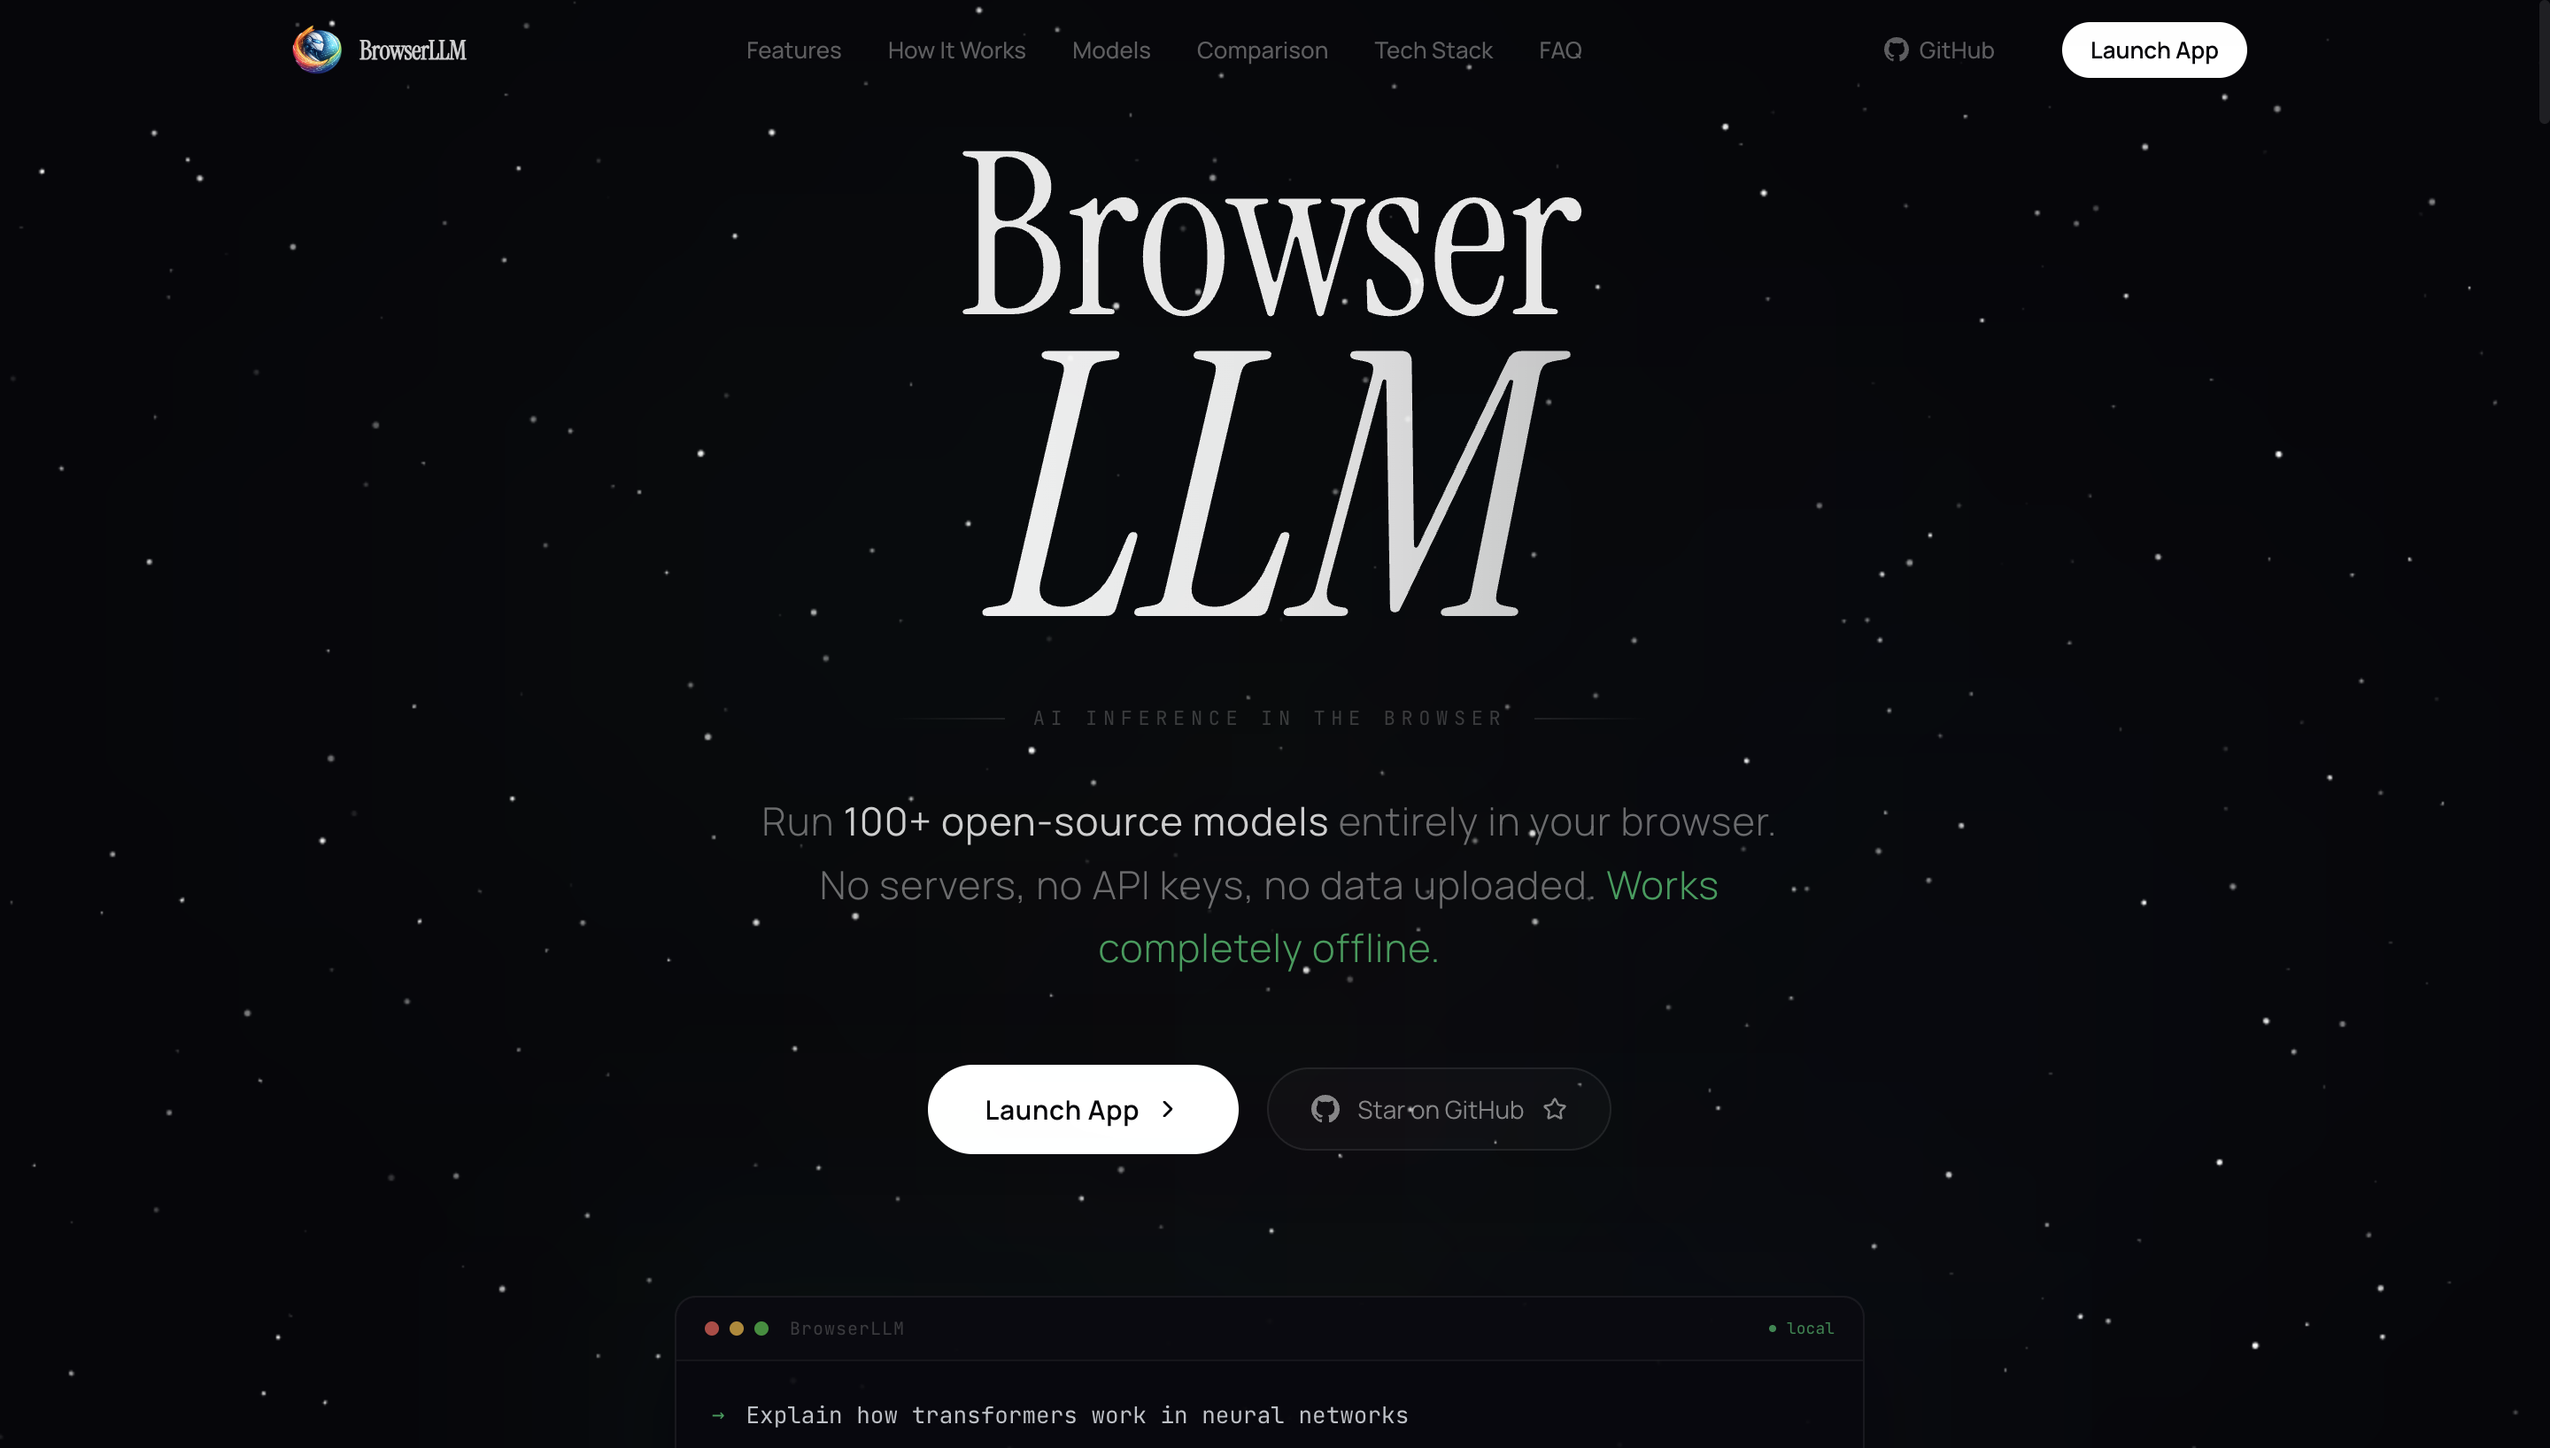
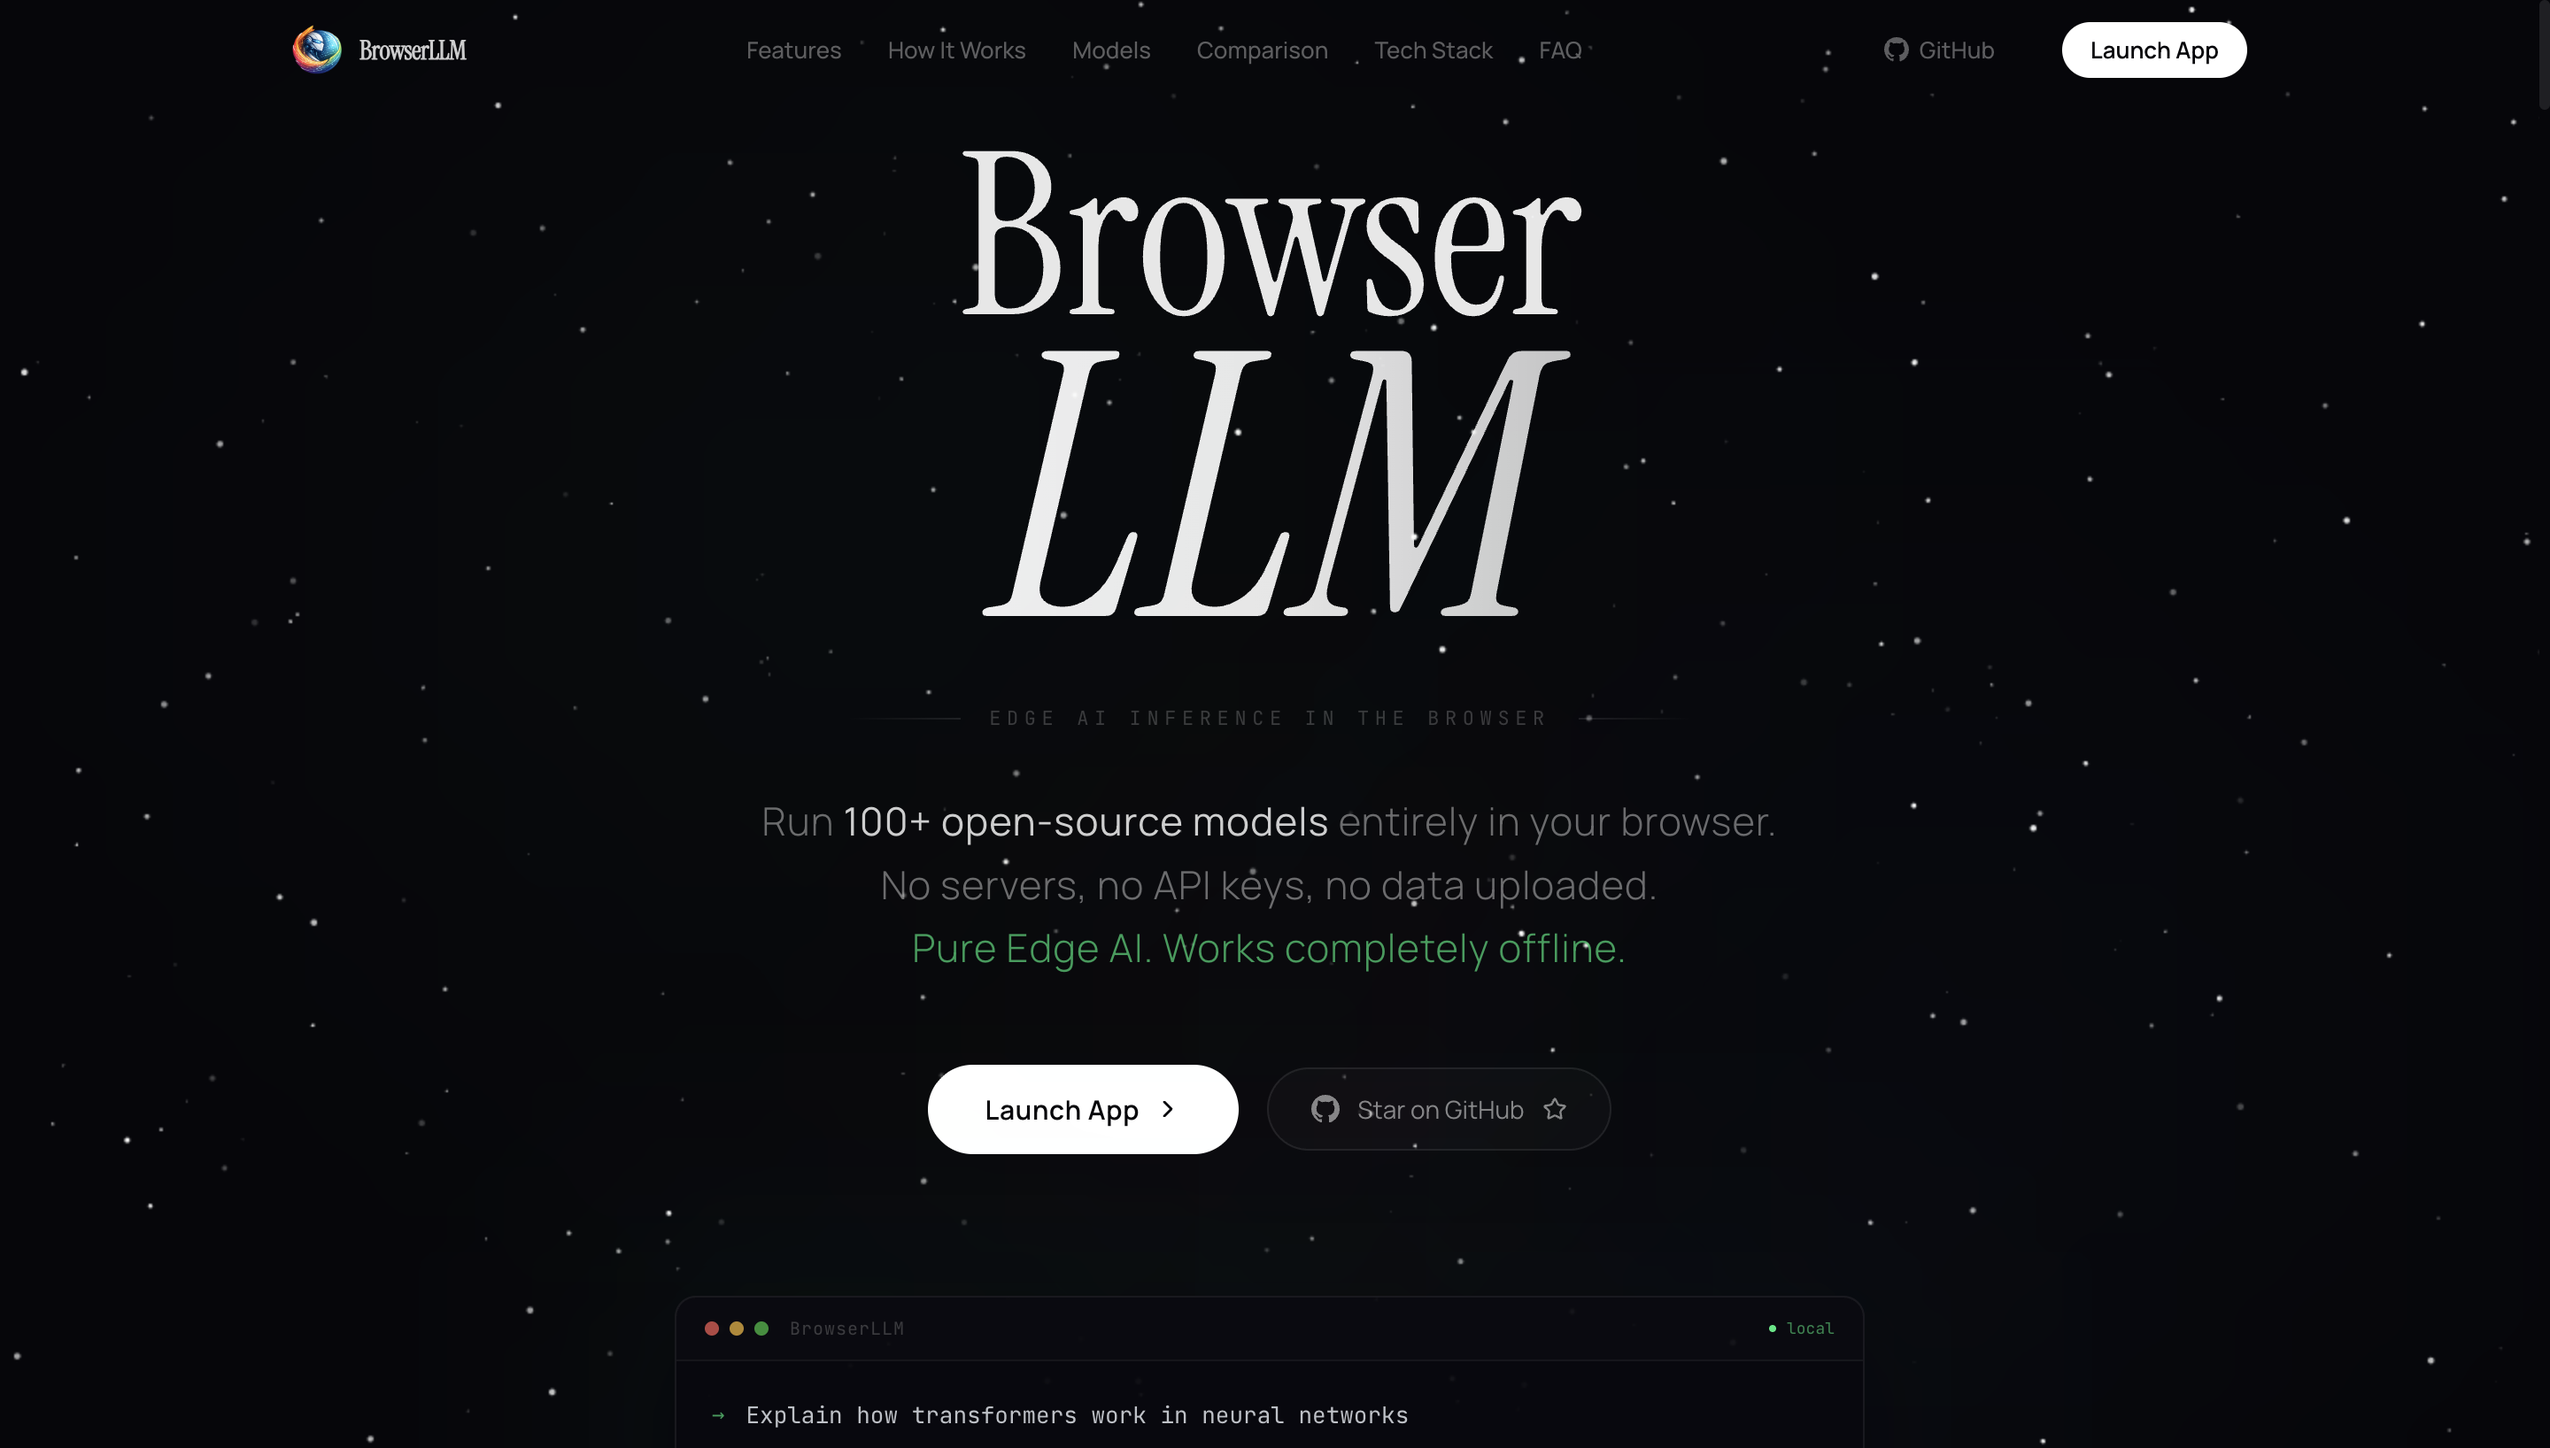
Add Zero Backend section, increase hero subtitle width, add Edge AI messaging throughout

Changed region(s): [[0.3125, 0.5923, 0.6562, 0.6858], [0.5625, 0.4676, 0.5938, 0.4988], [0.4375, 0.4676, 0.4688, 0.4988]]

diff --git a/src/components/landing/ZeroBackendSection.tsx b/src/components/landing/ZeroBackendSection.tsx
@@ -1,0 +1,141 @@
+import { motion } from "framer-motion";
+import { fadeUp, stagger, defaultTransition } from "../../lib/animations";
+import { SectionHeader } from "../ui/SectionHeader";
+import { ServerOff, Wifi, WifiOff, Code2, Lock, Cpu } from "lucide-react";
+
+const GithubIcon = ({ className }: { className?: string }) => (
+  <svg viewBox="0 0 24 24" fill="currentColor" className={className}>
+    <path d="M12 0C5.37 0 0 5.37 0 12c0 5.31 3.435 9.795 8.205 11.385.6.105.825-.255.825-.57 0-.285-.015-1.23-.015-2.235-3.015.555-3.795-.735-4.035-1.41-.135-.345-.72-1.41-1.23-1.695-.42-.225-1.02-.78-.015-.795.945-.015 1.62.87 1.845 1.23 1.08 1.815 2.805 1.305 3.495.99.105-.78.42-1.305.765-1.605-2.67-.3-5.46-1.335-5.46-5.925 0-1.305.465-2.385 1.23-3.225-.12-.3-.54-1.53.12-3.18 0 0 1.005-.315 3.3 1.23.96-.27 1.98-.405 3-.405s2.04.135 3 .405c2.295-1.56 3.3-1.23 3.3-1.23.66 1.65.24 2.88.12 3.18.765.84 1.23 1.905 1.23 3.225 0 4.605-2.805 5.625-5.475 5.925.435.375.81 1.095.81 2.22 0 1.605-.015 2.895-.015 3.3 0 .315.225.69.825.57A12.02 12.02 0 0024 12c0-6.63-5.37-12-12-12z" />
+  </svg>
+);
+
+const FACTS = [
+  {
+    icon: <ServerOff className="w-5 h-5" />,
+    title: "Zero Servers",
+    desc: "No backend. No API. No cloud functions. This entire app is a static site served from the edge. There is literally nothing to hack.",
+    accent: "#ff6b35",
+  },
+  {
+    icon: <WifiOff className="w-5 h-5" />,
+    title: "Works Offline",
+    desc: "Disconnect your internet. The app still works. Models run on YOUR GPU via WebGPU. Your data never touches a wire.",
+    accent: "#00d4ff",
+  },
+  {
+    icon: <Cpu className="w-5 h-5" />,
+    title: "True Edge AI",
+    desc: "AI inference happens at the edge - your device. No round-trips to data centers, no latency, no metered API calls. This is what AI was supposed to be.",
+    accent: "#00ff88",
+  },
+  {
+    icon: <Lock className="w-5 h-5" />,
+    title: "Unbreakable Privacy",
+    desc: "We can't see your data even if we wanted to. There's no server to log to, no database to query, no analytics pipeline. Mathematically private.",
+    accent: "#a78bfa",
+  },
+  {
+    icon: <Wifi className="w-5 h-5" />,
+    title: "No API Keys, Ever",
+    desc: "No sign-ups, no tokens, no rate limits, no billing. Open the site and start chatting with AI. That's it. Forever free.",
+    accent: "#facc15",
+  },
+  {
+    icon: <Code2 className="w-5 h-5" />,
+    title: "100% Open Source",
+    desc: "Every line of code is on GitHub. Fork it, audit it, self-host it, improve it. MIT Licensed. No strings attached.",
+    accent: "#f472b6",
+  },
+];
+
+export function ZeroBackendSection() {
+  return (
+    <section className="py-24 sm:py-32 px-6 relative overflow-hidden">
+      {/* Ambient glow */}
+      <div className="absolute top-1/2 left-1/2 -translate-x-1/2 -translate-y-1/2 w-[800px] h-[600px] bg-gradient-to-br from-[#ff6b35]/[0.04] via-[#00ff88]/[0.03] to-[#00d4ff]/[0.04] rounded-full blur-[180px] pointer-events-none" />
+
+      <div className="relative max-w-6xl mx-auto">
+        <SectionHeader
+          label="Zero Backend"
+          labelColor="text-[#ff6b35]"
+          title="This Website Has No Server"
+          subtitle="Read that again. There is no backend, no database, no API server. Every byte of AI runs on your device. This is Edge AI in its purest form."
+        />
+
+        {/* Highlight banner */}
+        <motion.div
+          initial="hidden"
+          whileInView="visible"
+          viewport={{ once: true }}
+          variants={fadeUp}
+          transition={defaultTransition}
+          className="mb-14 relative"
+        >
+          <div className="absolute -inset-1 bg-gradient-to-r from-[#ff6b35]/20 via-[#00ff88]/20 to-[#00d4ff]/20 rounded-2xl blur-xl opacity-50" />
+          <div className="relative bg-white/[0.02] border border-white/[0.08] rounded-2xl p-6 sm:p-8 text-center backdrop-blur-sm">
+            <p className="text-base sm:text-lg text-white/70 leading-relaxed max-w-3xl mx-auto font-light">
+              Most "AI apps" are just fancy wrappers around someone else's API.
+              <span className="text-white font-medium"> BrowserLLM is different.</span>{" "}
+              The model downloads once, runs on your GPU, and every conversation happens{" "}
+              <span className="text-[#00ff88] font-semibold">entirely inside your browser tab</span>.
+              No request ever leaves your machine.
+            </p>
+          </div>
+        </motion.div>
+
+        {/* Facts grid */}
+        <motion.div
+          initial="hidden"
+          whileInView="visible"
+          viewport={{ once: true, margin: "-50px" }}
+          variants={stagger}
+          className="grid sm:grid-cols-2 lg:grid-cols-3 gap-5 mb-12"
+        >
+          {FACTS.map((fact) => (
+            <motion.div
+              key={fact.title}
+              variants={fadeUp}
+              transition={defaultTransition}
+              className="group bg-white/[0.02] border border-white/[0.06] rounded-2xl p-6 hover:border-white/[0.12] transition-all duration-500"
+            >
+              <div
+                className="w-10 h-10 rounded-xl flex items-center justify-center mb-4 transition-colors duration-300"
+                style={{
+                  background: `${fact.accent}10`,
+                  color: `${fact.accent}`,
+                }}
+              >
+                {fact.icon}
+              </div>
+              <h3 className="text-base font-semibold text-white mb-2">{fact.title}</h3>
+              <p className="text-sm text-gray-400 leading-relaxed">{fact.desc}</p>
+            </motion.div>
+          ))}
+        </motion.div>
+
+        {/* Open source callout */}
+        <motion.div
+          initial="hidden"
+          whileInView="visible"
+          viewport={{ once: true }}
+          variants={fadeUp}
+          transition={defaultTransition}
+          className="text-center"
+        >
+          <p className="text-xs font-mono text-white/25 tracking-wider mb-4">
+            DON'T TRUST US. VERIFY IT YOURSELF.
+          </p>
+          <a
+            href="https://github.com/GautamVhavle/BrowserLLM"
+            target="_blank"
+            rel="noopener noreferrer"
+            className="inline-flex items-center gap-2.5 px-6 py-3 rounded-full border border-white/[0.08] bg-white/[0.02] hover:bg-white/[0.06] hover:border-white/[0.15] transition-all text-sm text-white/50 hover:text-white/80"
+          >
+            <GithubIcon className="w-4 h-4" />
+            View the entire source code
+          </a>
+        </motion.div>
+      </div>
+    </section>
+  );
+}

diff --git a/src/components/landing/HeroSection.tsx b/src/components/landing/HeroSection.tsx
@@ -156,7 +156,7 @@ export function HeroSection({ onStart }: HeroSectionProps) {
         >
           <div className="h-px w-16 bg-gradient-to-r from-transparent to-white/10" />
           <span className="text-[11px] font-mono text-white/20 tracking-[0.3em] uppercase">
-            AI inference in the browser
+            edge AI inference in the browser
           </span>
           <div className="h-px w-16 bg-gradient-to-l from-transparent to-white/10" />
         </motion.div>
@@ -168,8 +168,9 @@ export function HeroSection({ onStart }: HeroSectionProps) {
           className="text-center text-lg sm:text-xl md:text-[22px] text-white/40 max-w-xl mx-auto leading-relaxed mb-12 font-light tracking-wide"
         >
           Run <span className="text-white/80 font-normal">100+ open-source models</span> entirely
-          in your browser. No servers, no API keys, no data uploaded.{" "}
-          <span className="text-[#00ff88]/60">Works completely offline.</span>
+          in your browser. No servers, no API keys, no data uploaded.
+          <br />
+          <span className="text-[#00ff88]/60">Pure Edge AI. Works completely offline.</span>
         </motion.p>
 
         {/* ── CTAs ── */}

diff --git a/src/components/landing/Landing.tsx b/src/components/landing/Landing.tsx
@@ -7,6 +7,7 @@ import { HeroSection } from "./HeroSection";
 import { HowItWorksSection } from "./HowItWorksSection";
 import { TechStackSection } from "./TechStackSection";
 import { DeepDiveSection } from "./DeepDiveSection";
+import { ZeroBackendSection } from "./ZeroBackendSection";
 import { BentoGridSection } from "./BentoGridSection";
 import { ComparisonSection } from "./ComparisonSection";
 import { ModelsSection } from "./ModelsSection";
@@ -29,6 +30,7 @@ export function Landing({ onStart }: LandingProps) {
       <ComparisonSection />
       <TechStackSection />
       <DeepDiveSection />
+      <ZeroBackendSection />
       <FAQSection />
       <CtaSection onStart={onStart} />
       <Footer />

diff --git a/src/components/landing/BentoGridSection.tsx b/src/components/landing/BentoGridSection.tsx
@@ -698,8 +698,8 @@ export function BentoGridSection() {
         <SectionHeader
           label="Why BrowserLLM"
           labelColor="text-[#00ff88]"
-          title="AI Without Compromise"
-          subtitle="Every feature designed around one principle: your data stays yours."
+          title="Edge AI Without Compromise"
+          subtitle="Every feature designed around one principle: your data never leaves your device."
         />
 
         <motion.div

diff --git a/src/components/landing/ComparisonSection.tsx b/src/components/landing/ComparisonSection.tsx
@@ -68,7 +68,7 @@ export function ComparisonSection() {
           label="Comparison"
           labelColor="text-[#ff6b35]"
           title="How BrowserLLM Stacks Up"
-          subtitle="See how running AI directly in your browser compares to cloud services and local installations."
+          subtitle="See how Edge AI in your browser compares to cloud services and local installations."
         />
 
         <motion.div

diff --git a/src/components/landing/index.ts b/src/components/landing/index.ts
@@ -9,4 +9,5 @@ export { ComparisonSection } from "./ComparisonSection";
 export { ModelsSection } from "./ModelsSection";
 export { FAQSection } from "./FAQSection";
 export { CtaSection } from "./CtaSection";
+export { ZeroBackendSection } from "./ZeroBackendSection";
 export { Footer } from "./Footer";
